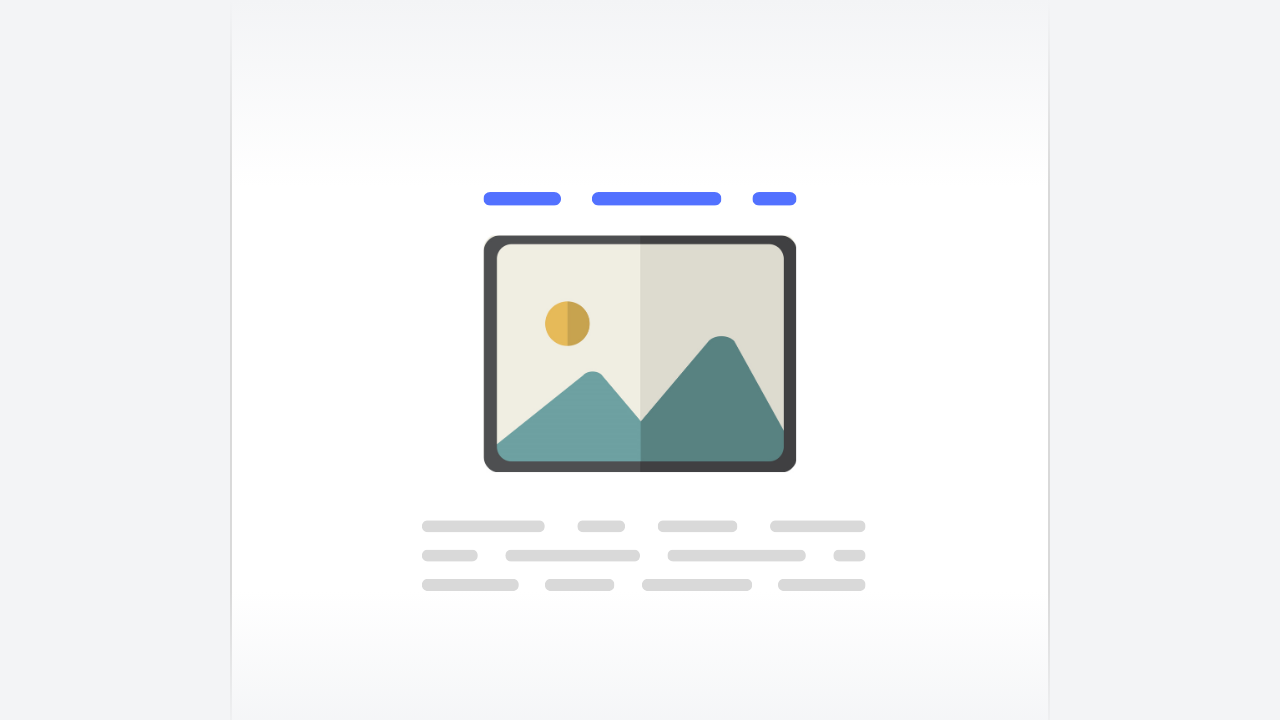
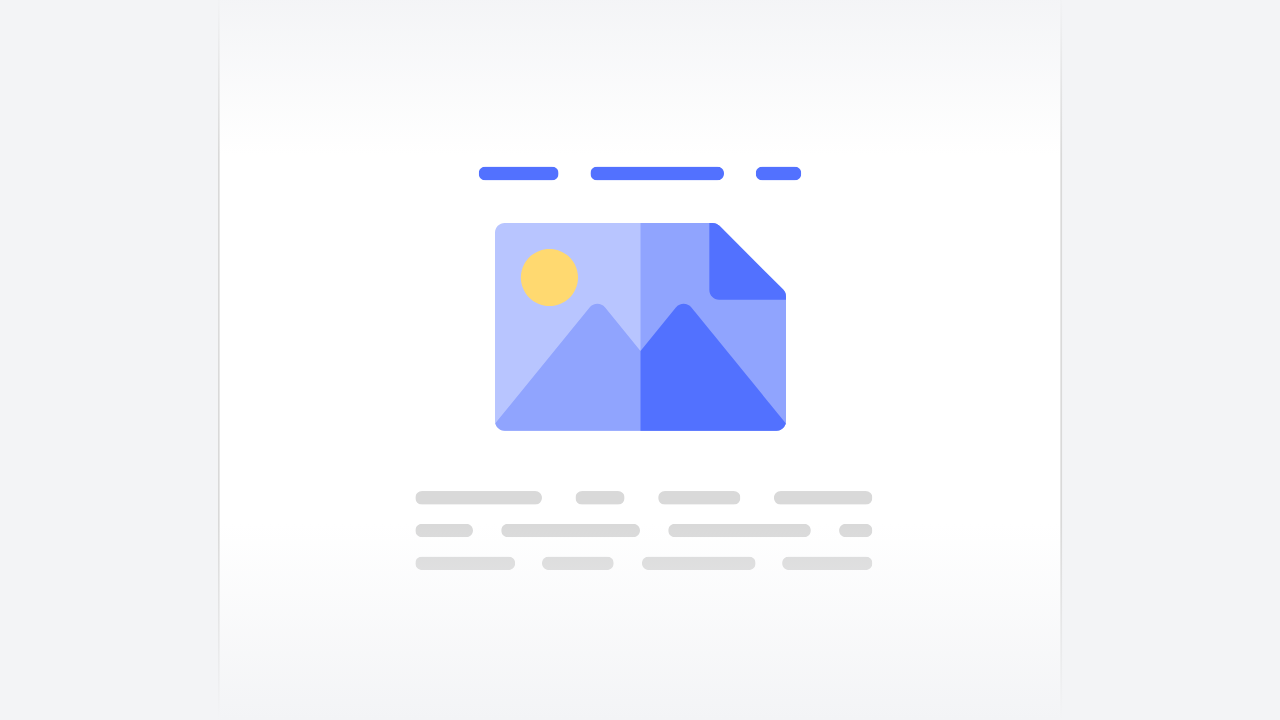
updated component images

Changed region(s): [[0.3125, 0.2139, 0.6875, 0.825]]

diff --git a/data/components.js b/data/components.js
@@ -7,10 +7,14 @@ import FeatureList from "@/public/images/components/feature-list.png";
 import FlyourMenu from '@/public/images/components/flyout.png';
 import Feedback from "@/public/images/components/feedback.png";
 import Newsletter from "@/public/images/components/newsletter.png";
-import Article from "@/public/images/components/article.png";
 import Blogs from "@/public/images/components/blogs.png";
-import HH1 from '@/public/images/components/h1.png';
-import FF1 from '@/public/images/components/f1.png';
+import Pricing from '@/public/images/components/pricing.png';
+import Hiw from '@/public/images/components/hiw.png';
+import Container from '@/public/images/components/container.png';
+import Faq from '@/public/images/components/faq.png';
+import Article from "@/public/images/components/article.png";
+import Logo from '@/public/images/components/logo.png';
+import Team from '@/public/images/components/team.png';
 
 import N1 from "@/ui/navbar/S1";
 import N2 from "@/ui/navbar/S2";
@@ -384,7 +388,7 @@ const components = [
         slug: "pricing",
         name: "Pricing",
         desc: "Component description",
-        image: Blogs,
+        image: Pricing,
         imgurl: "/images/components/blogs.png",
         number: "2 components",
         data: [
@@ -403,7 +407,7 @@ const components = [
         slug: "hiw",
         name: "How it works",
         desc: "Component description",
-        image: Blogs,
+        image: Hiw,
         imgurl: "/images/components/blogs.png",
         number: "2 components",
         data: [
@@ -423,7 +427,7 @@ const components = [
         slug: "container",
         name: "Container",
         desc: "Component description",
-        image: Blogs,
+        image: Container,
         imgurl: "/images/components/blogs.png",
         number: "2 components",
         data: [
@@ -443,7 +447,7 @@ const components = [
         slug: "faq",
         name: "FAQ",
         desc: "Component description",
-        image: Blogs,
+        image: Faq,
         imgurl: "/images/components/blogs.png",
         number: "2 components",
         data: [
@@ -488,7 +492,7 @@ const components = [
         slug: "logo",
         name: "Logo",
         desc: "Component description",
-        image: Article,
+        image: Logo,
         imgurl: "/images/components/blogs.png",
         number: "3 components",
         data: [
@@ -513,7 +517,7 @@ const components = [
         slug: "team",
         name: "Team",
         desc: "Component description",
-        image: Blogs,
+        image: Team,
         imgurl: "/images/components/blogs.png",
         number: "3 components",
         data: [
